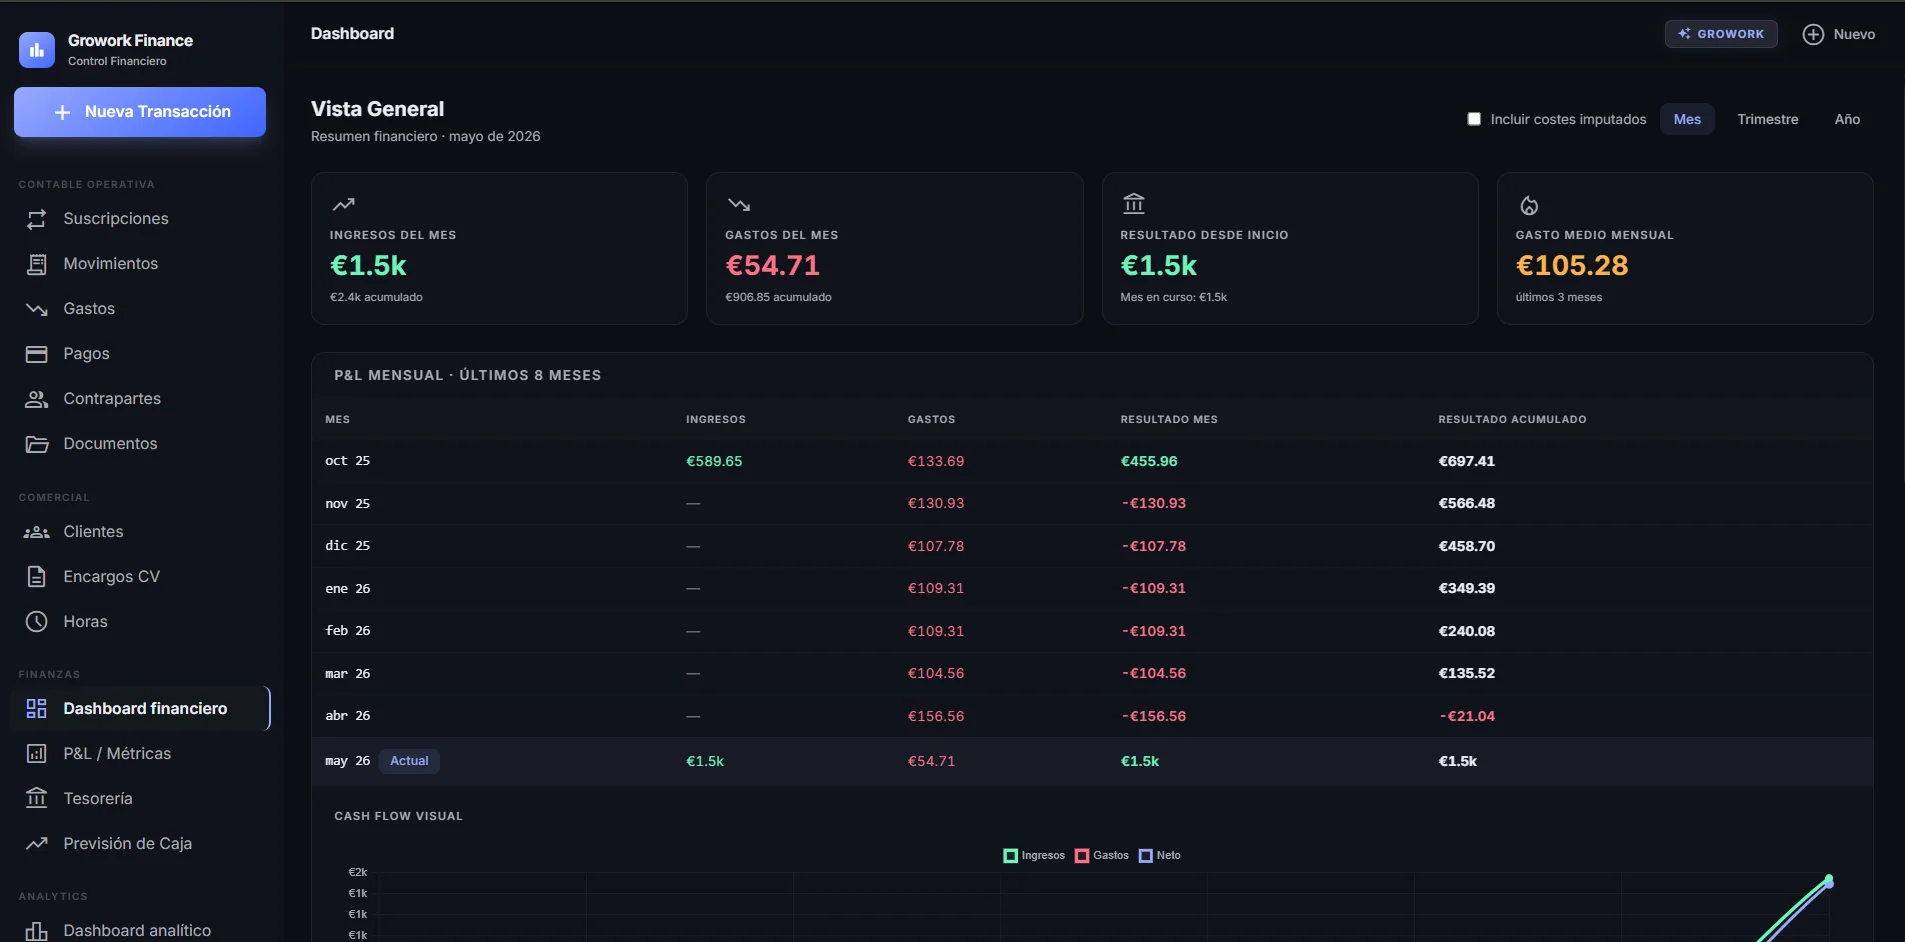
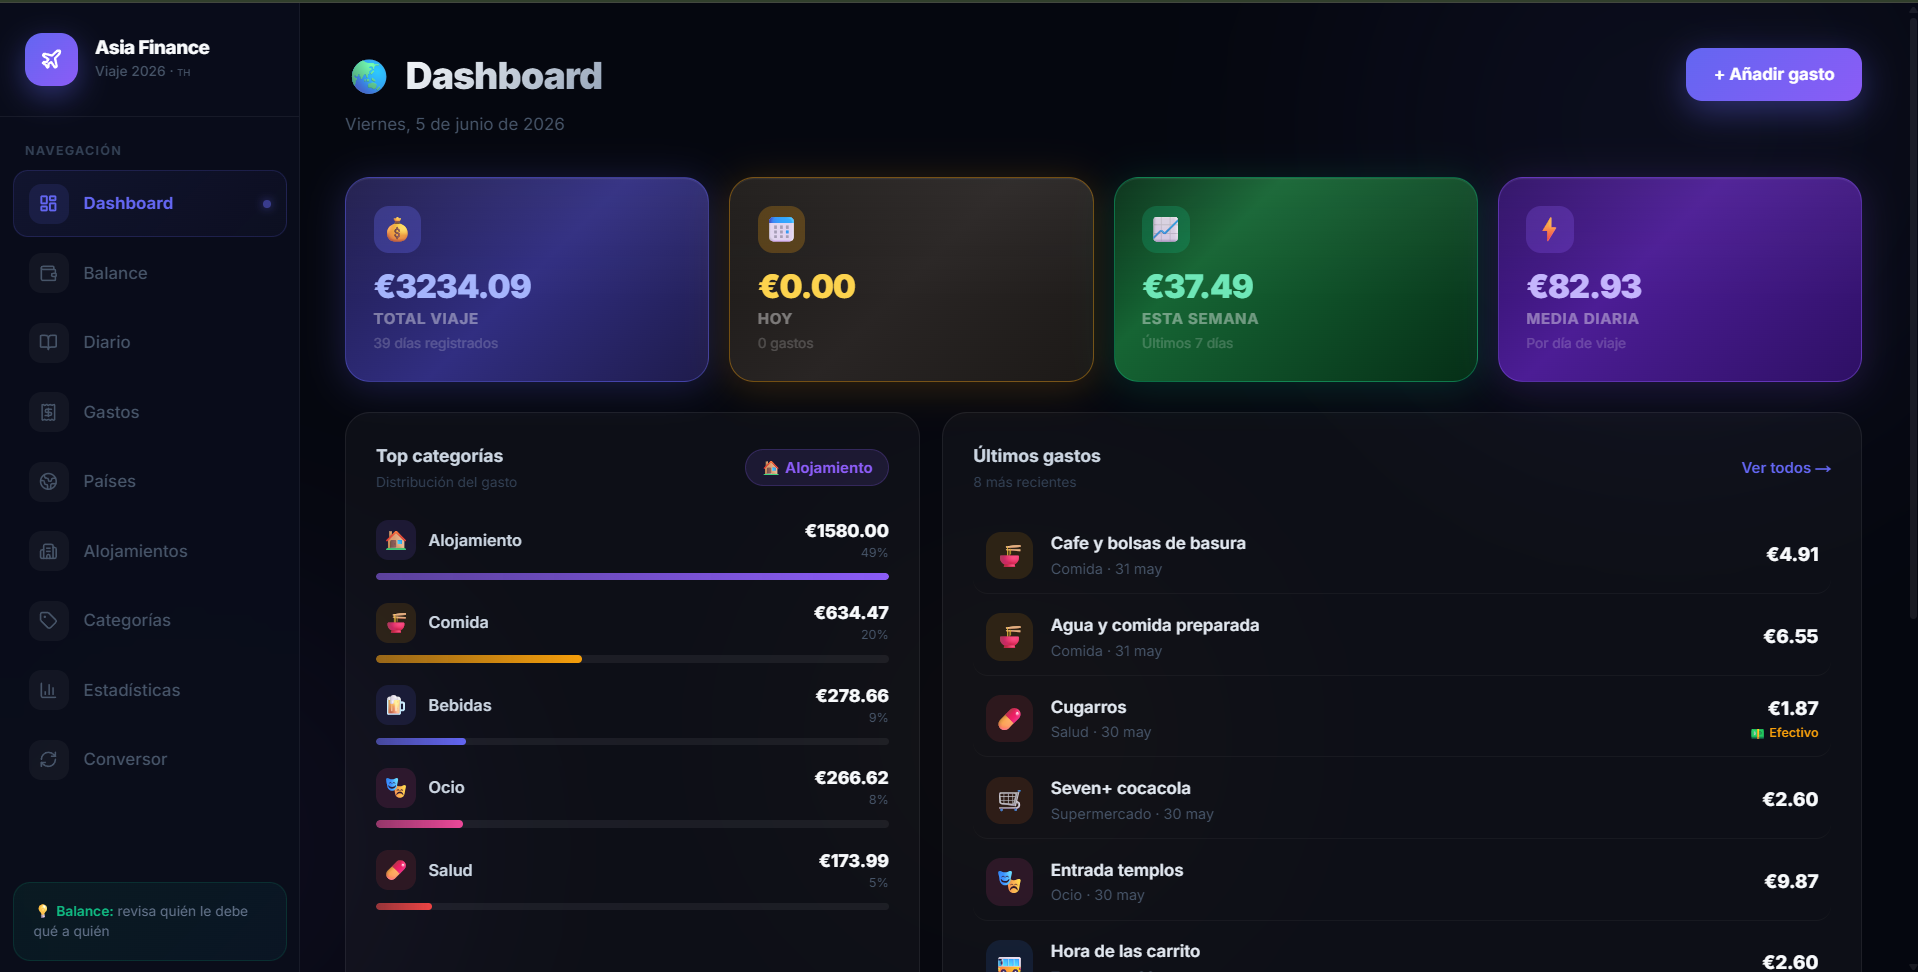
finanzasweb

diff --git a/src/lib/projects.ts b/src/lib/projects.ts
@@ -1216,57 +1216,184 @@ status = ("match" if similarity >= 0.50
   },
   {
     slug: "finanzas-asia",
-    title: "App de Gastos para Viaje por Asia: Multi-divisa, Balance en Tiempo Real y Supabase",
+    title: "Rastreador de Gastos para Viaje por Asia: Balance en Vivo, Multi-divisa y Cloudflare Zero Trust",
     category: "Herramienta personal full-stack",
     shortLabel: "Finanzas Asia",
     problem:
-      "Llevar las cuentas de un viaje largo entre dos personas en países con monedas distintas es un caos: quién pagó qué, cuánto le corresponde a cada uno, a qué tipo de cambio, y cuánto se debe en total. Una hoja de cálculo funciona hasta que tienes gastos en baht, dólares y francos mezclados.",
+      "Estoy de viaje por Asia con un amigo. Cada día hay gastos en baht tailandeses, dólares o euros: quién paga el hotel, quién invita a comer, qué es gasto compartido y qué es personal. Las apps genéricas como Splitwise no resuelven el problema real: si pagas 1.000 THB hoy y mañana el baht se mueve, la deuda en euros cambia. Una hoja de cálculo tampoco: hay que actualizarla a mano, no tiene historial limpio ni cálculo automático por persona.",
     solution:
-      "Aplicación web propia con Next.js y Supabase que registra gastos en cuatro divisas, calcula en tiempo real quién le debe cuánto a quién, y muestra estadísticas del viaje por categoría, país y persona. Acceso restringido con Cloudflare Zero Trust a los dos usuarios del viaje y desplegada en VPS propio con Dokploy.",
+      "Construí una aplicación web completa con Next.js y Supabase que registra cada gasto en su divisa original (EUR, THB, USD, CHF) y recalcula el balance entre los dos viajeros usando los tipos de cambio actuales de la API de Frankfurter cada vez que se abre la página. Si el baht sube o baja, la deuda de hoy refleja lo que se debe hoy, no lo que valía el día del pago. El acceso está restringido con Cloudflare Zero Trust a los dos correos autorizados, sin necesidad de gestionar un sistema de login propio.",
     description:
-      "Herramienta personal para gestionar los gastos de un viaje por Asia entre dos personas: multi-divisa (EUR, THB, USD, CHF), balance en tiempo real, estadísticas con gráficos, gestión de alojamientos y acceso protegido con Cloudflare Zero Trust.",
+      "App web para gestionar los gastos de un viaje por Asia entre dos personas: registra en cuatro divisas (EUR, THB, USD, CHF), recalcula el balance al tipo de cambio en vivo, muestra estadísticas con Recharts, lleva un registro de alojamientos y funciona detrás de Cloudflare Zero Trust desplegada en VPS propio.",
     longDescription:
-      "En lugar de una hoja de cálculo, construí una app completa para el viaje. Registra gastos en cuatro monedas, recalcula el balance con tipos de cambio en tiempo real, distingue gastos compartidos de personales, y muestra el resumen en un dashboard con KPIs, gráficos de evolución y últimos movimientos.",
+      "En lugar de depender de una app de terceros con datos en servidores ajenos, construí una herramienta propia en una semana. La decisión técnica más interesante fue separar el importe original del gasto (en THB, USD o CHF) del equivalente en euros: al abrir la página de balance, la app pide los tipos de cambio actuales a Frankfurter y recalcula toda la deuda histórica, así que el número que ves siempre refleja lo que se debe hoy al precio actual del dinero.",
     results: [
-      { value: "4", label: "divisas: EUR, THB, USD, CHF" },
-      { value: "8", label: "módulos: dashboard, gastos, balance, stats, alojamientos, países, conversor, diario" },
-      { value: "2FA", label: "acceso vía Cloudflare Zero Trust" },
+      { value: "4", label: "divisas nativas: EUR, THB, USD, CHF" },
+      { value: "7", label: "tablas en Supabase" },
+      { value: "Live", label: "balance recalculado al tipo de cambio actual vía Frankfurter API" },
     ],
-    stack: ["Next.js 16", "React 19", "TypeScript", "Supabase", "PostgreSQL", "Tailwind CSS 4", "Recharts", "Cloudflare Zero Trust", "Dokploy", "Docker"],
-    images: ["/screenshots/finanzas.webp"],
+    stack: ["Next.js 16", "React 19", "TypeScript", "Supabase", "PostgreSQL", "Tailwind CSS 4", "Recharts", "Frankfurter API", "Cloudflare Zero Trust", "Dokploy", "Docker"],
+    images: ["/screenshots/finanzas.webp", "/screenshots/finanzas2.webp", "/screenshots/finanzas3.webp"],
     heroImage: "/screenshots/finanzas.webp",
+    evidenceEyebrow: "App en uso",
+    evidenceTitle: "Dashboard, balance en vivo y estadísticas",
+    evidenceIntro: "Las tres capturas muestran las partes más técnicas de la app: el dashboard con KPIs del viaje, el balance calculado al tipo de cambio actual y los gráficos de estadísticas por categoría y persona.",
+    evidence: [
+      {
+        title: "Dashboard del viaje",
+        description: "Vista principal con los KPIs del viaje: total gastado, gasto del día, de la semana y media diaria. Incluye el desglose de las categorías principales con barras de progreso y los últimos movimientos con su categoría, país y quién pagó.",
+        image: "/screenshots/finanzas.webp",
+        alt: "Dashboard de la app de finanzas del viaje por Asia con KPIs y desglose por categorías",
+      },
+      {
+        title: "Balance y deuda en tiempo real",
+        description: "El balance muestra en todo momento quién le debe cuánto a quién, calculado al tipo de cambio actual de Frankfurter API. El badge 'Tasas en vivo' confirma que los datos son frescos. La tarjeta principal resume el saldo neto y el listado detalla cada gasto pendiente de liquidar.",
+        image: "/screenshots/finanzas2.webp",
+        alt: "Página de balance de la app mostrando la deuda entre los dos viajeros calculada al tipo de cambio en vivo",
+      },
+      {
+        title: "Estadísticas con gráficos Recharts",
+        description: "Panel de estadísticas con gráfico de barras por categoría, evolución del gasto a lo largo del viaje y distribución circular. Los gráficos se pueden filtrar por persona: los gastos compartidos se dividen al 50% al aplicar el filtro.",
+        image: "/screenshots/finanzas3.webp",
+        alt: "Página de estadísticas con gráficos de barras, líneas y circular del gasto del viaje por Asia",
+      },
+    ],
+    featuresIntro:
+      "Cada módulo resuelve una necesidad concreta del viaje. No es un clon genérico: las decisiones de diseño responden a problemas reales que aparecieron durante los primeros días.",
     features: [
       {
-        title: "Dashboard con KPIs en tiempo real",
-        description: "Total del viaje, gasto de hoy, de la semana y media diaria calculados sobre todos los registros. Incluye desglose por categoría con barras de progreso y panel de últimos movimientos.",
+        title: "Balance en tiempo real con tipos de cambio vivos",
+        description: "La característica más importante. Al abrir el balance, la app consulta Frankfurter API para obtener EUR/THB, EUR/USD y EUR/CHF actuales, y recalcula toda la deuda histórica con esas tasas. Si pagué 1.000 THB cuando el baht valía 38€ y hoy vale 40€, la deuda refleja 25€, no 26,31€. Con fallback a Supabase si la API falla, y a valores hardcoded como último recurso.",
       },
       {
-        title: "Gastos multi-divisa",
-        description: "Registra en EUR, THB, USD o CHF. La app convierte automáticamente al euro usando los tipos de cambio configurados y guarda tanto el importe original como su equivalente en euros.",
+        title: "Tres tipos de gasto por cada registro",
+        description: "Cada gasto es 'compartido' (50/50), 'personal de A' o 'personal de B'. El balance distingue quién pagó físicamente de quién es responsable: si A paga algo que es de B, la deuda sube aunque ambos usen la misma tarjeta. Los gastos liquidados se pueden marcar como 'is_settled' sin borrarlos.",
       },
       {
-        title: "Balance entre dos personas",
-        description: "Calcula en tiempo real quién debe cuánto a quién, distinguiendo gastos compartidos (50/50), personales de cada uno y liquidaciones ya realizadas. Los tipos de cambio en vivo recalculan el histórico.",
+        title: "Multi-divisa nativa con cuatro columnas de importe",
+        description: "Cada gasto almacena el importe original (amount_thb, amount_usd, amount_chf, amount_eur) más la divisa de entrada. Así el recálculo al tipo de cambio vivo siempre parte del importe original, no de una conversión ya guardada que nadie actualizaría.",
       },
       {
-        title: "Estadísticas con gráficos",
-        description: "Distribución por categoría, evolución del gasto a lo largo del viaje y comparativa entre personas. Gráficos de barras, líneas y circular con Recharts, filtrables por usuario.",
+        title: "Dashboard con KPIs y desglose por categoría",
+        description: "Total del viaje, gasto del día, de la semana y media diaria calculados al vuelo. Desglose de las cinco categorías principales con barras de progreso, últimos ocho movimientos, panel de tipos de cambio y estado del alojamiento activo si hay uno en curso.",
       },
       {
-        title: "Alojamientos y países",
-        description: "Registro de hoteles con fechas de check-in/check-out, precio por noche y divisa local. Panel de países visitados con moneda y tipo de cambio.",
+        title: "Estadísticas con gráficos Recharts",
+        description: "Gráfico de barras por categoría, evolución del gasto por semana (línea) y gráfico circular de distribución. Los tres se pueden filtrar por persona: los gastos compartidos se dividen al 50% al aplicar el filtro.",
+      },
+      {
+        title: "Alojamientos, países, categorías y diario",
+        description: "Registro completo de hoteles con check-in, check-out y precio por noche vinculado al gasto. Panel de países visitados con su moneda local. Categorías personalizables con emoji e color. Conversor de divisas integrado. Diario de viaje.",
+      },
+    ],
+    toolsIntro:
+      "Elegí herramientas que me permitieran tener algo funcional y desplegado en pocos días, sin sacrificar la parte técnica que me importaba: el cálculo de balance en vivo.",
+    tools: [
+      {
+        title: "Next.js 16 + React 19",
+        icon: "route",
+        description:
+          "App Router con Server Components para el dashboard (datos siempre frescos sin caché) y Client Components para el balance e interactividad. Todo en un solo proyecto sin backend separado.",
+      },
+      {
+        title: "Supabase",
+        icon: "cloud",
+        description:
+          "Backend gestionado: PostgreSQL, API REST autogenerada y cliente JavaScript. No tuve que gestionar un servidor de base de datos ni escribir un backend propio. RLS configurado aunque desactivado para uso personal entre dos usuarios de confianza.",
+      },
+      {
+        title: "Frankfurter API",
+        icon: "server",
+        description:
+          "API pública y gratuita para tipos de cambio en tiempo real sin necesidad de API key. Con cadena de fallback: API en vivo → última tasa guardada en Supabase → valores hardcoded. El resultado siempre muestra si el dato es 'en vivo' o 'histórico'.",
+      },
+      {
+        title: "Recharts",
+        icon: "terminal",
+        description:
+          "Gráficos de barras, líneas y circular para las estadísticas. Elegido por su integración natural con React y porque los datos ya están en el estado del componente sin necesidad de configuración extra.",
       },
       {
         title: "Cloudflare Zero Trust",
-        description: "Solo los dos usuarios del viaje pueden acceder. Cloudflare Access actúa como capa de identidad antes de llegar a la app, sin necesidad de un sistema de login propio.",
+        icon: "shield",
+        description:
+          "Capa de acceso antes de llegar a la app. Solo los dos correos autorizados pueden entrar. Elimina la necesidad de construir un sistema de autenticación propio: ni JWT, ni base de usuarios, ni formulario de login.",
+      },
+      {
+        title: "Dokploy + Docker + VPS",
+        icon: "deploy",
+        description:
+          "Desplegado en el mismo VPS que otras herramientas internas. Docker para el contenedor, Dokploy para gestionar el despliegue sin comandos manuales y Cloudflare para el DNS y el proxy.",
       },
     ],
+    challengesIntro:
+      "El problema técnico principal no era guardar gastos, sino calcular correctamente quién debe cuánto cuando las divisas se mueven.",
+    challenges: [
+      {
+        title: "Deuda que cambia con el mercado",
+        description:
+          "Si guardara la conversión a euros en el momento del gasto, la deuda sería estática y técnicamente incorrecta: el dinero que se debe hoy no tiene el valor de hace tres semanas. La solución fue guardar siempre el importe original en su divisa y recalcular al tipo de cambio actual en cada carga de la página.",
+      },
+      {
+        title: "Separar quién pagó de quién es responsable",
+        description:
+          "El modelo más simple sería: 'A pagó X, B pagó Y, se divide por 2'. Pero eso no cubre gastos personales de uno pagados por el otro, ni liquidaciones parciales. El modelo real tiene cuatro variables por persona: lo que pagó, lo que le corresponde, lo que ya ha liquidado y el saldo neto resultante.",
+      },
+      {
+        title: "Fallback en cascada para los tipos de cambio",
+        description:
+          "Frankfurter puede fallar o tardar. Si falla, la app cae al último tipo guardado en Supabase. Si tampoco hay datos en Supabase (app recién instalada), usa valores hardcoded y lo indica visualmente con un badge 'Tasas históricas' en vez de 'Tasas en vivo'.",
+      },
+      {
+        title: "Sin sistema de autenticación propio",
+        description:
+          "Para dos usuarios conocidos con correos fijos, construir un sistema de registro, login, JWT y recuperación de contraseña es sobrediseño. Cloudflare Zero Trust resuelve el acceso antes de que la petición llegue a la app, sin una sola línea de código de auth.",
+      },
+    ],
+    dataModelTitle: "Siete tablas para un viaje completo",
+    dataModelIntro:
+      "El modelo refleja la realidad del viaje: gastos en varias monedas vinculados a países y alojamientos, dos personas con su perfil y presupuesto, y un historial de liquidaciones separado de los gastos.",
+    dataModel: [
+      {
+        name: "expenses",
+        purpose:
+          "El núcleo del sistema. Guarda cuatro columnas de importe (amount_thb, amount_usd, amount_chf, amount_eur) más la divisa original (input_currency) para poder recalcular siempre desde el valor nativo.",
+        fields: ["date", "country_id", "accommodation_id", "category_id", "amount_thb / usd / chf / eur", "input_currency", "paid_by (profile_id)", "expense_for (shared|persona_a|persona_b)", "is_settled"],
+      },
+      {
+        name: "settlements",
+        purpose:
+          "Transferencias reales de dinero entre las dos personas, separadas de los gastos. Permiten liquidar la deuda sin marcar cada gasto individual como saldado.",
+        fields: ["from_profile", "to_profile", "amount_eur", "date", "notes"],
+      },
+      {
+        name: "profiles",
+        purpose:
+          "Los dos viajeros con su nombre, color, emoji y presupuesto total para el viaje. La tabla tiene solo dos filas.",
+        fields: ["display_name", "color", "emoji", "total_budget"],
+      },
+      {
+        name: "currency_rates",
+        purpose:
+          "Cache de tipos de cambio en Supabase. La API de Frankfurter hace upsert por fecha, así que hay una fila por día con las tasas EUR→THB, EUR→USD y EUR→CHF.",
+        fields: ["date (PK)", "eur_to_thb", "eur_to_usd", "eur_to_chf", "source (live|fallback)"],
+      },
+      {
+        name: "countries · accommodations · categories",
+        purpose:
+          "Tablas de referencia: países visitados con su divisa local, hoteles con check-in/check-out y precio por noche, y categorías de gasto con emoji y color personalizables.",
+        fields: ["flag_emoji", "currency_code", "exchange_rate", "check_in / check_out", "price_per_night", "icon", "color"],
+      },
+    ],
+    architectureIntro:
+      "La arquitectura prioriza velocidad de entrega y mantenimiento mínimo. Un único contenedor Docker con Next.js, Supabase como backend gestionado y Cloudflare haciendo el trabajo de autenticación.",
     architecture: [
-      "Next.js 16 App Router: Server Components para el dashboard (datos frescos en cada carga) y Client Components para el balance e interactividad en tiempo real.",
-      "Supabase como backend completo: PostgreSQL con tablas de gastos, países, alojamientos, categorías, perfiles, tipos de cambio y liquidaciones.",
-      "Recharts para los gráficos de estadísticas (barras, líneas, pie) renderizados en el cliente con filtrado por usuario.",
-      "Cloudflare Zero Trust como única capa de acceso: autenticación por correo autorizado antes de llegar a la app, sin gestionar sesiones propias.",
-      "Desplegada en VPS propio mediante Dokploy y Docker, en el mismo servidor interno que otras herramientas del ecosistema.",
+      "Next.js 16 App Router: Server Components para el dashboard (force-dynamic, sin caché), Client Components para balance, gastos y estadísticas (interacción, filtros, estado local).",
+      "Supabase como backend completo: PostgreSQL con 7 tablas, API REST autogenerada y cliente JS. Las migraciones SQL están versionadas en el repositorio.",
+      "Frankfurter API para tipos de cambio en vivo (EUR/THB, EUR/USD, EUR/CHF). Cadena de fallback en tres niveles: API → Supabase cache → valores hardcoded.",
+      "effectiveEurAtLiveRate(): función que recalcula el equivalente en euros de cada gasto usando siempre el importe nativo original y las tasas actuales, no las históricas.",
+      "Cloudflare Zero Trust como única capa de autenticación. Sin JWT propio, sin tabla de usuarios, sin formulario de login.",
+      "Docker + Dokploy en VPS propio. Un solo contenedor. Mismo servidor que otras herramientas del ecosistema.",
     ],
   },
 ];